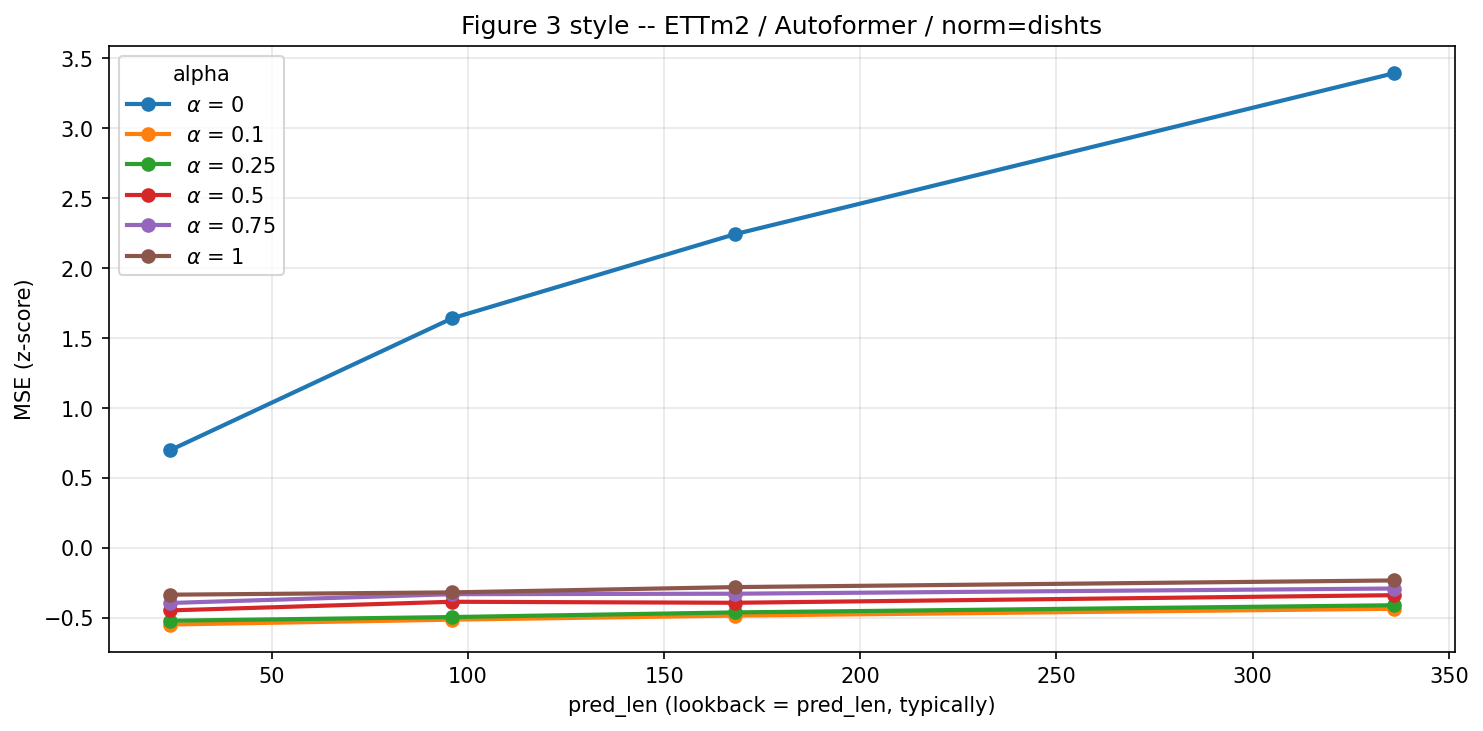
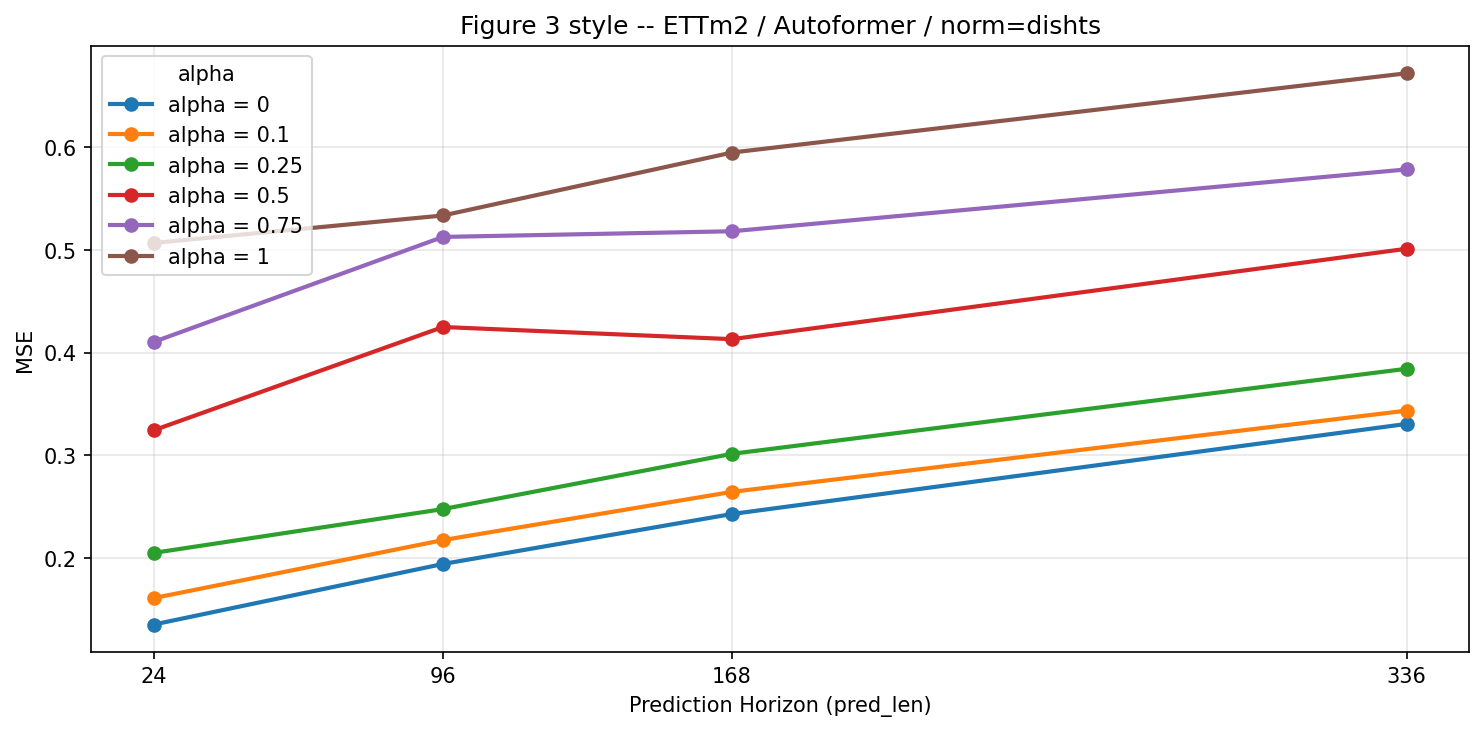
chore(results): update alpha sweep (fixed alpha=0.0 seed=2023 outlier + fix plot x-axis ticks)
- Re-run alpha=0.0 seed=2023 for pred_len 24/96/168/336 with current code
- All 3 seeds now consistent (no more 47x outlier)
- Fix plot_figure3.py: use actual pred_len values as x-axis ticks
- Fix alpha character display: use plain 'alpha' instead of LaTeX symbol

diff --git a/repro_figures/plot_figure3.py b/repro_figures/plot_figure3.py
@@ -88,14 +88,19 @@ def plot_alpha_sensitivity(df: pd.DataFrame, dataset: str, model: str, norm: str
             grouped["MSE_z"] = (grouped["MSE"] - mu) / sd
             y_col = "MSE_z"
 
+    # Get unique pred_len values for x-axis ticks
+    all_preds = sorted(grouped["pred_len"].unique())
+
     for idx, alpha in enumerate(alphas):
         seg = grouped[grouped["alpha"] == alpha].sort_values("pred_len")
         ax.plot(seg["pred_len"], seg[y_col], marker="o", linewidth=2.0,
-                color=palette[idx], label=rf"$\alpha$ = {alpha:g}")
+                color=palette[idx], label=f"alpha = {alpha:g}")
 
-    ax.set_xlabel("pred_len (lookback = pred_len, typically)")
+    ax.set_xlabel("Prediction Horizon (pred_len)")
     ax.set_ylabel("MSE (z-score)" if zscore else "MSE")
     ax.set_title(title)
+    ax.set_xticks(all_preds)  # use actual pred_len values, not auto ticks
+    ax.set_xticklabels([str(int(p)) for p in all_preds])
     ax.grid(True, alpha=0.3)
     ax.legend(title="alpha", loc="best", fontsize=10)
     fig.tight_layout()